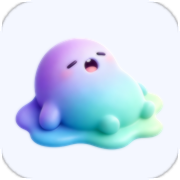
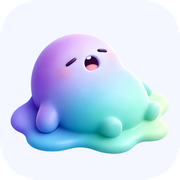
fix(brand): 提高躺沙发肥嘚小标清晰度
去掉平滑发糊，按源图像素只缩小；favicon 改为 192 PNG 加多尺寸 ICO，页头标加大。

diff --git a/server/templates/publish.html b/server/templates/publish.html
@@ -4,7 +4,7 @@
 <meta charset="utf-8">
 <meta name="viewport" content="width=device-width, initial-scale=1, viewport-fit=cover">
 <link rel="icon" href="/favicon.ico" sizes="any">
-<link rel="icon" type="image/png" href="/favicon.png">
+<link rel="icon" type="image/png" sizes="192x192" href="/favicon.png">
 <link rel="apple-touch-icon" href="/apple-touch-icon.png">
 <title>发布 Skill｜可靠的流量推荐渠道 · SkillFeeder</title>
 <meta name="description" content="在 SkillFeeder 提交公开 GitHub 仓库，过审后进入高星发现流和 Agent 目录。可靠的流量推荐渠道，帮你的产品更好地找到用户。">

diff --git a/server/templates/login.html b/server/templates/login.html
@@ -4,7 +4,7 @@
 <meta charset="utf-8">
 <meta name="viewport" content="width=device-width, initial-scale=1, viewport-fit=cover">
 <link rel="icon" href="/favicon.ico" sizes="any">
-<link rel="icon" type="image/png" href="/favicon.png">
+<link rel="icon" type="image/png" sizes="192x192" href="/favicon.png">
 <link rel="apple-touch-icon" href="/apple-touch-icon.png">
 <title>登录发布｜让你的 Skill 被用户找到 · SkillFeeder</title>
 <meta name="description" content="登录 SkillFeeder，发布自己的 GitHub Skill。过审后进入已过滤的高星发现流，帮你的产品找到用户。">

diff --git a/server/templates/home.html b/server/templates/home.html
@@ -4,7 +4,7 @@
 <meta charset="utf-8">
 <meta name="viewport" content="width=device-width, initial-scale=1, viewport-fit=cover">
 <link rel="icon" href="/favicon.ico" sizes="any">
-<link rel="icon" type="image/png" href="/favicon.png">
+<link rel="icon" type="image/png" sizes="192x192" href="/favicon.png">
 <link rel="apple-touch-icon" href="/apple-touch-icon.png">
 <title>SkillFeeder API</title>
 <link href="https://fonts.googleapis.com/css2?family=Outfit:wght@400;600;700;800&display=swap" rel="stylesheet">

diff --git a/server/templates/admin.html b/server/templates/admin.html
@@ -4,7 +4,7 @@
 <meta charset="utf-8">
 <meta name="viewport" content="width=device-width, initial-scale=1, viewport-fit=cover">
 <link rel="icon" href="/favicon.ico" sizes="any">
-<link rel="icon" type="image/png" href="/favicon.png">
+<link rel="icon" type="image/png" sizes="192x192" href="/favicon.png">
 <link rel="apple-touch-icon" href="/apple-touch-icon.png">
 <title>管理后台 · SkillFeeder</title>
 <link rel="preconnect" href="https://fonts.googleapis.com">

diff --git a/server/templates/review.html b/server/templates/review.html
@@ -4,7 +4,7 @@
 <meta charset="utf-8">
 <meta name="viewport" content="width=device-width, initial-scale=1, viewport-fit=cover">
 <link rel="icon" href="/favicon.ico" sizes="any">
-<link rel="icon" type="image/png" href="/favicon.png">
+<link rel="icon" type="image/png" sizes="192x192" href="/favicon.png">
 <link rel="apple-touch-icon" href="/apple-touch-icon.png">
 <title>审核队列 · SkillFeeder</title>
 <link rel="preconnect" href="https://fonts.googleapis.com">

diff --git a/scripts/make_brand_icons.py b/scripts/make_brand_icons.py
@@ -1,7 +1,13 @@
-"""从慵懒躺沙发的肥嘚透明稿生成浏览器小标。"""
+"""从慵懒躺沙发的肥嘚透明稿生成浏览器小标。
+
+先在 1024 里排版，再 LANCZOS 缩到各尺寸。禁止 SMOOTH：小标发糊就是它造成的。
+16/32/48 缩完后轻轻锐化，把眼睛和嘴的边找回来。
+"""
 
 from __future__ import annotations
 
+import io
+import struct
 from pathlib import Path
 
 from PIL import Image, ImageDraw, ImageFilter
@@ -12,7 +18,7 @@ OUT = ROOT / "docs" / "brand" / "assets"
 BG = (244, 247, 255, 255)  # 冰紫壳底，和 brand-guide 一致
 
 
-def _trim(im: Image.Image, pad: int = 8) -> Image.Image:
+def _trim(im: Image.Image, pad: int = 4) -> Image.Image:
     bbox = im.getbbox()
     if not bbox:
         return im
@@ -33,30 +39,66 @@ def _rounded_bg(size: int, radius: int) -> Image.Image:
     return canvas
 
 
-def compose(size: int, *, margin_ratio: float = 0.10) -> Image.Image:
+def compose_master(*, margin_ratio: float = 0.05) -> Image.Image:
+    """按源图像素排版。源图只有 512，禁止先放大再缩小。"""
     blob = _trim(Image.open(SRC).convert("RGBA"))
-    canvas = _rounded_bg(size, radius=max(18, size // 5))
+    needed = int(max(blob.width, blob.height) / (1 - 2 * margin_ratio))
+    size = max(blob.width, blob.height, needed)
+    size += size % 2
+    canvas = _rounded_bg(size, radius=size // 5)
     inner = int(size * (1 - 2 * margin_ratio))
-    scale = min(inner / blob.width, inner / blob.height)
-    w, h = max(1, int(blob.width * scale)), max(1, int(blob.height * scale))
-    blob = blob.resize((w, h), Image.Resampling.LANCZOS)
-    x, y = (size - w) // 2, (size - h) // 2 + size // 40
+    if blob.width > inner or blob.height > inner:
+        scale = min(inner / blob.width, inner / blob.height)
+        w, h = max(1, int(blob.width * scale)), max(1, int(blob.height * scale))
+        blob = blob.resize((w, h), Image.Resampling.LANCZOS)
+    else:
+        w, h = blob.width, blob.height
+    x, y = (size - w) // 2, (size - h) // 2 + size // 50
     canvas.alpha_composite(blob, (x, y))
-    return canvas.filter(ImageFilter.SMOOTH_MORE)
+    return canvas
+
+
+def _downscale(master: Image.Image, size: int) -> Image.Image:
+    out = master.resize((size, size), Image.Resampling.LANCZOS)
+    if size <= 16:
+        out = out.filter(ImageFilter.UnsharpMask(radius=0.6, percent=130, threshold=1))
+    elif size <= 48:
+        out = out.filter(ImageFilter.UnsharpMask(radius=0.8, percent=150, threshold=1))
+    return out
+
+
+def write_ico(path: Path, frames: list[Image.Image]) -> None:
+    """把多张 PNG 打进 ICO。Pillow 的 sizes= 经常只留下最大的一帧。"""
+    entries = []
+    blobs = []
+    offset = 6 + 16 * len(frames)
+    for frame in frames:
+        buf = io.BytesIO()
+        frame.save(buf, format="PNG")
+        data = buf.getvalue()
+        side = frame.width
+        stored = 0 if side >= 256 else side
+        entries.append(struct.pack("<BBBBHHII", stored, stored, 0, 0, 1, 32, len(data), offset))
+        blobs.append(data)
+        offset += len(data)
+    with path.open("wb") as fh:
+        fh.write(struct.pack("<HHH", 0, 1, len(frames)))
+        fh.write(b"".join(entries))
+        fh.write(b"".join(blobs))
 
 
 def main() -> None:
     if not SRC.exists():
         raise SystemExit(f"missing {SRC}")
-    square = compose(512)
-    square.save(OUT / "logo-sofa.png", format="PNG")
-    compose(180, margin_ratio=0.08).save(OUT / "apple-touch-icon.png", format="PNG")
-    compose(48, margin_ratio=0.06).save(OUT / "favicon.png", format="PNG")
-    ico_src = compose(128, margin_ratio=0.04)
-    ico_src.save(
+    master = compose_master()
+    side = min(master.width, 512)
+    _downscale(master, side).save(OUT / "logo-sofa.png", format="PNG")
+    _downscale(master, 180).save(OUT / "apple-touch-icon.png", format="PNG")
+    # 192：视网膜 tab 按 2x/3x 显示时还有余量，不要再交 48px 糊点。
+    _downscale(master, 192).save(OUT / "favicon.png", format="PNG")
+    write_ico(
         OUT / "favicon.ico",
-        format="ICO",
-        sizes=[(16, 16), (32, 32), (48, 48)],
+        [_downscale(master, size) for size in (16, 32, 48)],
     )
     print("wrote", OUT / "logo-sofa.png")
     print("wrote", OUT / "favicon.ico")

diff --git a/feed_dashboard.py b/feed_dashboard.py
@@ -612,13 +612,13 @@ def build_feed_html(feed: dict, *, variant: str | None = None) -> str:
     color: var(--ink);
   }}
   .logo-mark {{
-    width: 36px;
-    height: 28px;
+    width: 52px;
+    height: 40px;
     flex-shrink: 0;
     object-fit: contain;
     display: inline-block;
   }}
-  .foot-logo .logo-mark {{ width: 28px; height: 22px; }}
+  .foot-logo .logo-mark {{ width: 40px; height: 32px; }}
   .logo .feeder {{
     color: var(--brand-purple);
     background-image: var(--brand-grad);

diff --git a/docs/brand/brand-guide.md b/docs/brand/brand-guide.md
@@ -14,7 +14,7 @@ docs/brand/
     ├── logo-feide-transparent.png ← 慵懒躺沙发（页头/页脚）
     ├── logo-sofa.png       ← 躺沙发方标（favicon 源）
     ├── favicon.ico         ← 浏览器 tab（16/32/48px）
-    ├── favicon.png         ← 浏览器 tab（48px）
+    ├── favicon.png         ← 浏览器 tab（192px，视网膜）
     ├── apple-touch-icon.png ← iOS 添加到主屏（180px）
     ├── ip-four-views.png   ← 肥嘚四视图（正/侧/背/顶）
     ├── expressions.png     ← 表情系统总览
